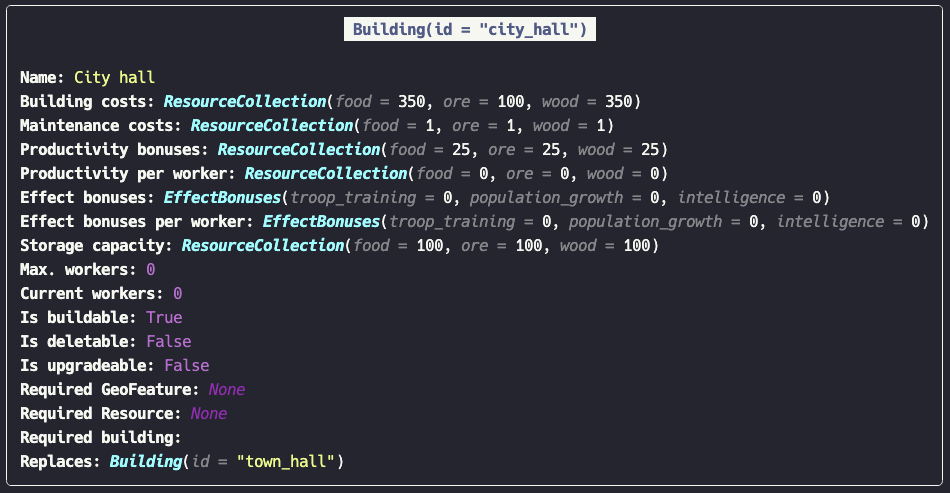
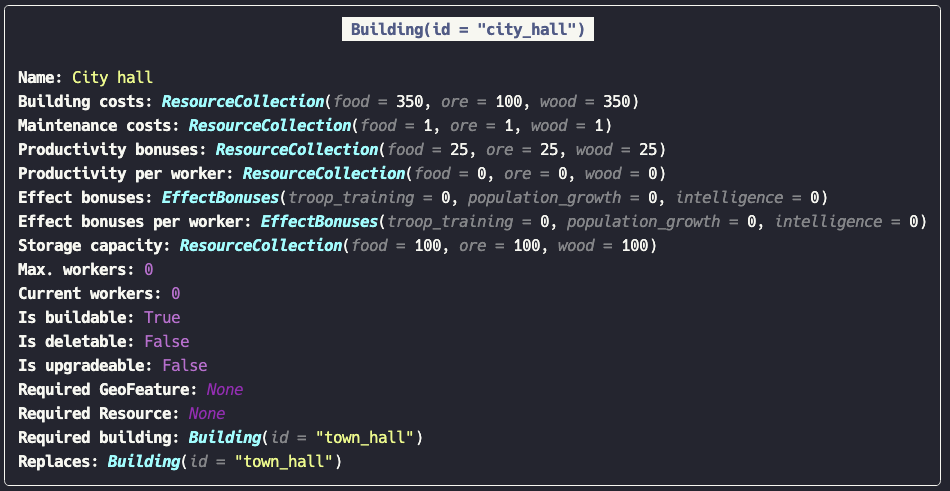
Fix required building (#100)
This PR fixes the issues with the required building.

### Changes to `data/buildings.yaml`

The issues with list that should be "tuples" is addressed. YAML doesn't
really have tuples. Therefore, I have added the building IDs separated
by ", " so that they are easily manipulated.

I have modified the unit test
`test_all_required_buildings_are_building_ids()` to account for this so
that errors are not introduced. By convetion, halls are always
introduced first.

Lastly, #90 mentions that the required buildings for Stables are wrong
because each line is missing the "village_hall" building. But this is
not correct. Each line needs to list the immediate dependencies, not the
recursive ones. The Stables depend on Farm, Large farm, Vineyard and
Fishing village just like the file already states.

### Changes to the `Building` class

The init and post init for the field are modified accordingly. The post
init takes care of transforming the list of strings containing building
IDs separated by ", " into a `list[tuple[str, ...]]`.

Two new staticmethods are introduced:

- `_format_building()` for formatting `Building(id = "...")`
- `_format_none()` for formatting None values

These two methods are applied where applicable (like the required geo
and rss, or the replaces). `_format_building()` is not applied to the
title because that one is an exception with a different format.

The `_building_required_building()` method is updated to show the
[…]

Changed region(s): [[0.0, 0.1222, 1.0, 1.0], [0.3663, 0.0305, 0.6411, 0.0916]]

diff --git a/modules/building.py b/modules/building.py
@@ -144,7 +144,7 @@ class Building:
     # example, a Stable requires either a Farm, or a Large Farm, or a Vineyard, or a Fishing Village. If the city has
     # any one for them it can build a Stable. Similarly, a Blacksmith requires either a Mine, or a Large Mine, or a
     # Mountain Mine, or an Outcrop Mine. If a building has no dependencies the list will be empty.
-    required_building: list[str] = field(init = False, default_factory = list, repr = False, compare = False, hash = False)
+    required_building: list[tuple[str, ...]] = field(init = False, default_factory = list, repr = False, compare = False, hash = False)
     replaces: str | None = field(init = False, default = None, repr = False, compare = False, hash = False)
     
     
@@ -159,6 +159,14 @@ class Building:
         if self.workers > self.max_workers:
             raise ValueError(f"Too many workers. Max is {self.max_workers} for {self.name}.")
     
+    def _unpack_required_buildings(self) -> list[tuple[str, ...]]:
+        required_buildings_list_of_strings: list[str] = _BUILDINGS[self.id]["required_building"]
+        required_buildings: list[tuple[str, ...]] = []
+        
+        for requirement in required_buildings_list_of_strings:
+            required_buildings.append(tuple(requirement.split(sep = ", ")))
+        
+        return required_buildings
     
     def __post_init__(self) -> None:
         self._validate_building_exists()
@@ -177,7 +185,7 @@ class Building:
         self.is_upgradeable = _BUILDINGS[self.id]["is_upgradeable"]
         self.required_geo = GeoFeature(value = _BUILDINGS[self.id]["required_geo"]) if _BUILDINGS[self.id]["required_geo"] else None
         self.required_rss = Resource(value = _BUILDINGS[self.id]["required_rss"]) if _BUILDINGS[self.id]["required_rss"] else None
-        self.required_building = _BUILDINGS[self.id]["required_building"]
+        self.required_building = self._unpack_required_buildings()
         self.replaces = _BUILDINGS[self.id]["replaces"]
         
         self._validate_initial_number_of_workers()
@@ -230,6 +238,15 @@ class Building:
     
     
     #* Display building
+    @staticmethod
+    def _format_building(text: str) -> str:
+        return f"[italic bold bright_cyan]Building[/italic bold bright_cyan](" \
+            f"[italic dim]id = [/italic dim][yellow]\"{text}\"[/yellow])"
+    
+    @staticmethod
+    def _format_none() -> str:
+        return f"[italic dim dark_magenta]None[/italic dim dark_magenta]"
+    
     def _building_information(self) -> Text:
         text: Text = Text(
             text = f" Building(id = \"{self.id}\") ",
@@ -327,34 +344,46 @@ class Building:
         return text
     
     def _building_required_geo(self) -> str:
-        text: str = f"[bold]Required GeoFeature:[/bold] "
+        text: str = f"[bold]Required geo. feature:[/bold] "
+        
         if self.required_geo:
             text += f"[italic bold bright_cyan]GeoFeature[/italic bold bright_cyan].{self.required_geo.name}"
         else:
-            text += f"[italic dim dark_magenta]{self.required_geo}[/italic dim dark_magenta]"
+            text += Building._format_none()
+        
         return text
     
     def _building_required_rss(self) -> str:
-        text: str = f"[bold]Required Resource:[/bold] "
+        text: str = f"[bold]Required resource:[/bold] "
+        
         if self.required_rss:
-            text += f"[italic bold bright_cyan]GeoFeature[/italic bold bright_cyan].{self.required_rss.name}"
+            text += f"[italic bold bright_cyan]Resource[/italic bold bright_cyan].{self.required_rss.name}"
         else:
-            text += f"[italic dim dark_magenta]{self.required_rss}[/italic dim dark_magenta]"
+            text += Building._format_none()
+        
         return text
     
     def _building_required_building(self) -> str:
         text: str = f"[bold]Required building:[/bold] "
+        
+        if len(self.required_building) == 0:
+            return text + Building._format_none()
+        
+        lines: list[str] = []
+        
+        for idx, group in enumerate(self.required_building):
+            prefix: str = "" if idx == 0 else "               [italic dim]OR:[/italic dim] "
+            transformed: list[str] = [Building._format_building(text = element) for element in group]
+            line: str = prefix + " [italic dim]AND[/italic dim] ".join(transformed)
+            lines.append(line)
+        
+        text += "\n".join(lines)
+        
         return text
     
     def _building_replaces(self) -> str:
         text: str = f"[bold]Replaces:[/bold] "
-        if self.replaces:
-            # Building(id = \"{self.id}\")
-            text += f"[italic bold bright_cyan]Building[/italic bold bright_cyan](" \
-                f"[italic dim]id = [/italic dim][yellow]\"{self.replaces}\"[/yellow])"
-        else:
-            text += f"[italic dim dark_magenta]{self.replaces}[/italic dim dark_magenta]"
-        return text
+        return text + (Building._format_building(text = self.replaces) if self.replaces else Building._format_none())
     
     def _building_current_workers(self) -> str:
         text: str = f"[bold]Current workers:[/bold] " \
@@ -362,18 +391,29 @@ class Building:
         return text
     
     def _build_building_display(self) -> Panel:
+        #* Heights
+        padding: int = 2
+        title_height: int = 2
+        
+        required_building_height: int = max(len(self.required_building), 1)
+        number_of_other_properties_to_print: int = 16
+        main_height: int = number_of_other_properties_to_print + required_building_height
+        
+        total_height: int = title_height + main_height
+        
+        #* Layout building
         layout: Layout = Layout()
         
         layout.split(
             Layout(
                 name = "header",
-                size = 2,
+                size = title_height,
                 ratio = 0,
                 visible = True,
             ),
             Layout(
                 name = "main",
-                size = 30,
+                size = main_height,
                 ratio = 0,
                 visible = True,
             ),
@@ -476,7 +516,7 @@ class Building:
             ),
             Layout(
                 name = "required_building",
-                size = 1,
+                size = required_building_height,
                 ratio = 0,
                 visible = True,
             ),
@@ -558,7 +598,7 @@ class Building:
         
         return Panel(
             renderable = layout,
-            height = 21,
+            height = total_height + padding,
             width = 105,
         )
     

diff --git a/tests/test_building.py b/tests/test_building.py
@@ -262,10 +262,11 @@ class TestBuildingsData:
             building_id: str = building["id"]
             required_building: list[str] = building["required_building"]
             
-            for rb in required_building:
-                if rb not in all_building_ids:
-                    error: tuple[str, str] = (building_id, rb)
-                    _errors.append(error)
+            for requirement in required_building:
+                for building in tuple(requirement.split(sep = ", ")):
+                    if building not in all_building_ids:
+                        error: tuple[str, str] = (building_id, building)
+                        _errors.append(error)
         
         assert len(_errors) == 0, _errors
     
@@ -318,7 +319,7 @@ class TestBuilding:
         assert city_hall.is_upgradeable == False
         assert city_hall.required_geo is None
         assert city_hall.required_rss is None
-        assert city_hall.required_building == ["town_hall"]
+        assert city_hall.required_building == [("town_hall",)]
         assert city_hall.replaces == "town_hall"
         assert city_hall.workers == 0
     
@@ -361,3 +362,20 @@ class TestBuilding:
         
         with raises(expected_exception = ValueError):
             large_mine.set_workers(qty = 10)
+
+
+@mark.building
+@mark.building_scenarios
+class TestBuildingScenarios:
+    
+    def test_farmers_guild(self) -> None:
+        farmers_guild: Building = Building(id = "farmers_guild")
+        
+        assert farmers_guild.required_building == [("city_hall", "large_farm")]
+        assert farmers_guild.required_rss == Resource.FOOD
+    
+    def test_stables(self) -> None:
+        stables: Building = Building(id = "stables")
+        
+        assert stables.required_building == [("farm", ), ("large_farm", ), ("vineyard", ), ("fishing_village", )]
+        assert stables.required_rss is None

diff --git a/building_example.py b/building_example.py
@@ -11,7 +11,22 @@ mountain_mine.display_building()
 
 print()
 
-large_mine: Building = Building(id = "large_mine", workers = 0)
+village_hall: Building = Building(id = "village_hall")
+village_hall.display_building()
+
+print()
+
+stables: Building = Building(id = "stables")
+stables.display_building()
+
+print()
+
+carpenters_guild: Building = Building(id = "carpenters_guild", workers = 0)
+carpenters_guild.display_building()
+
+print()
+
+large_mine: Building = Building(id = "large_mine")
 large_mine.display_building()
 
 print()
